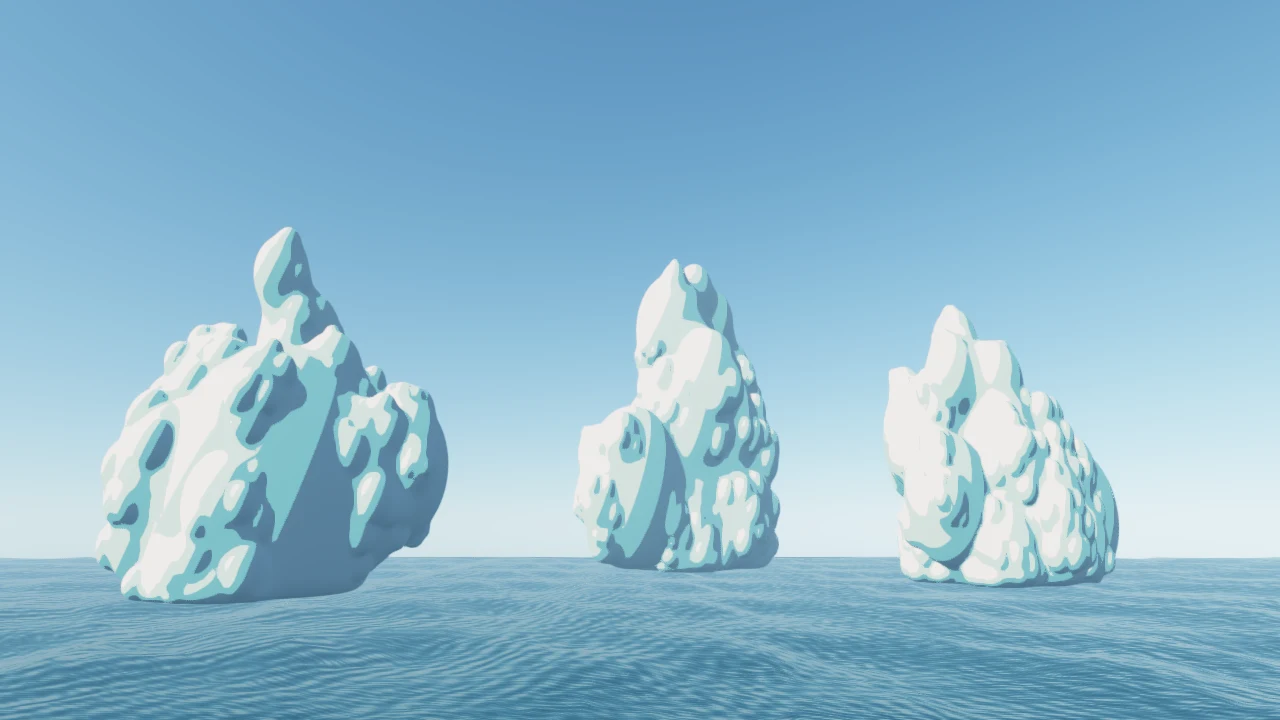
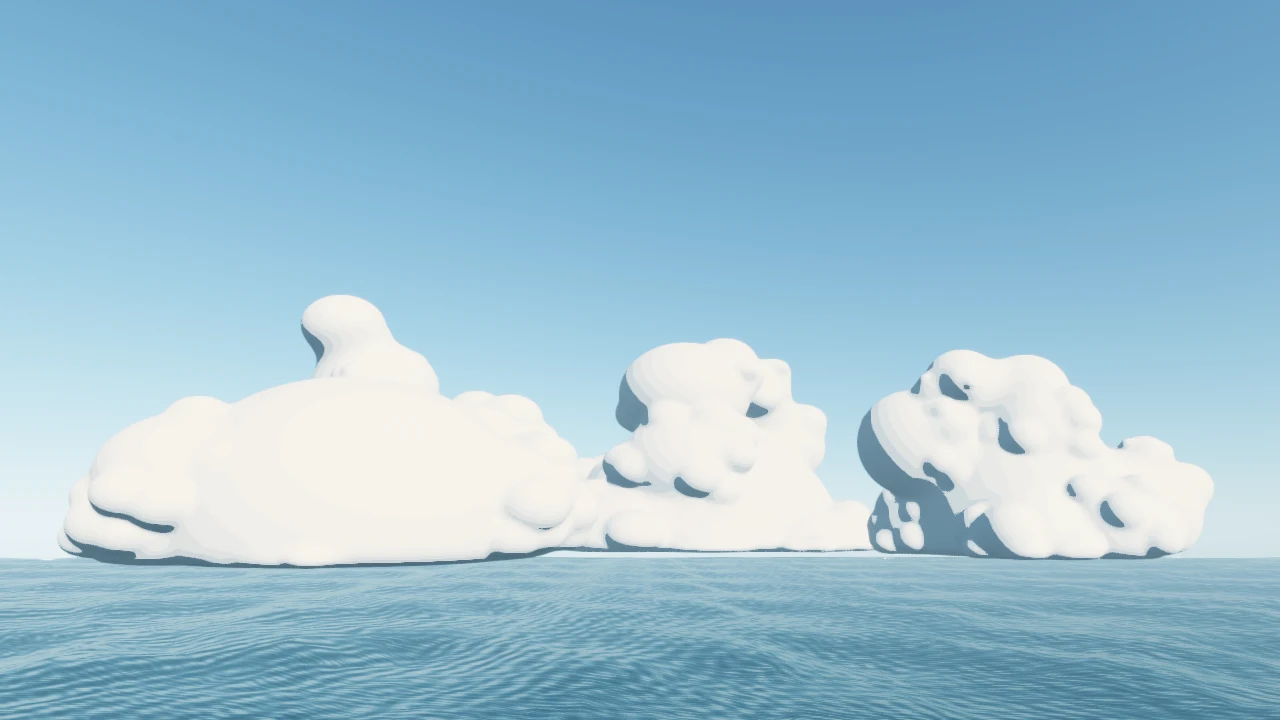
Rework the cumulus towers into soft, flat-based clouds (#2039)
The towers read as snow towers: 680 small spheres with a crisp union and three hard toon steps cut dark pits between the lobes. The recipe now has wide clouds with a flat base, a softly blended union, fewer small lobes and six toon steps from blue-grey in the shade to warm white in the sun, lit from the side. Cauliflower detail and a silver lining are still missing.

diff --git a/tests/cumulus-towers-recipe.test.js b/tests/cumulus-towers-recipe.test.js
@@ -19,17 +19,24 @@ function hashOf(mesh) {
   return hash.digest('hex');
 }
 
-test('the cumulus towers recipe has three tall towers and three toon tones with their own colours', () => {
+test('the cumulus towers recipe has three wide, flat-based clouds with soft lobes and a cool-to-warm toon ramp', () => {
   const recipe = JSON.parse(recipeText);
   const towers = recipe.geometries.filter(geometry => geometry.type === 'cloud');
   assert.deepEqual(towers.map(tower => tower.id), TOWER_IDS);
   for (const tower of towers) {
-    assert.ok(tower.height > tower.width, `${tower.id} must be taller than wide`);
-    assert.equal(tower.levels.length, 3);
+    assert.ok(tower.width > tower.height, `${tower.id} must be wider than tall, as a cumulus is`);
+    assert.equal(tower.flatBase, 1, `${tower.id} keeps a flat base`);
+    assert.ok(tower.unionSoftness >= 0.2, `${tower.id} blends its lobes softly`);
+    assert.ok(tower.levels.at(-1).count <= 200, `${tower.id} has few enough small lobes to stay fluffy`);
   }
   const cumulus = recipe.materials.find(material => material.id === 'cumulus');
-  assert.equal(cumulus.toon, 3);
-  assert.equal(cumulus.toonColors.length, 3);
+  assert.equal(cumulus.toon, 6);
+  assert.equal(cumulus.toonColors.length, 6);
+  const [darkest] = cumulus.toonColors;
+  const lightest = cumulus.toonColors.at(-1);
+  assert.ok(darkest[2] > darkest[0], 'the shaded step is blue-grey');
+  assert.ok(lightest[0] > lightest[2], 'the lit step is warm white');
+  assert.ok(Math.min(...darkest) >= 0.25, 'the shaded step stays light, so no dark pits');
 });
 
 test('the cumulus towers recipe builds the same towers byte for byte every time, each different from the others', () => {

diff --git a/docs/modeling.md b/docs/modeling.md
@@ -156,7 +156,7 @@ A scene geometry takes the same fields with `"type": "cloud"` (see `scene_capabi
 
 With `levels` such as `[{"count": 7, "sizeRatio": 1}, {"count": 60, "sizeRatio": 0.35}, {"count": 680, "sizeRatio": 0.12}]` the cloud becomes a tower covered in rounded lobes. Normals come from the gradient of the blended field at each vertex, not from the mesh faces, so toon steps follow the lobes without fine rings. Later levels find their neighbours in a grid, so 680 bumps cost little per sample; three such towers at `resolution` 128 take about 2.3 s together. A mesh over 150000 faces is refused with the resolution to pass instead.
 
-Three tall towers over a sea, each with three levels of lobes and three hard toon tones (`toonColors`, darkest to lightest), are in [`recipes/cumulus-towers.json`](https://crucible.codepawl.com/recipes/cumulus-towers.json). A still of it, rendered by Crucible:
+Three wide cumulus over a sea, each with a flat base and three levels of softly blended lobes, shaded with six toon steps (`toonColors`, darkest to lightest) from blue-grey in the shade to warm white in the sun, are in [`recipes/cumulus-towers.json`](https://crucible.codepawl.com/recipes/cumulus-towers.json). A still of it, rendered by Crucible:
 
 ![Three cumulus towers over the sea](https://crucible.codepawl.com/recipes/cumulus-towers.webp)
 

diff --git a/changes/2039-still.md b/changes/2039-still.md
@@ -1,1 +1,1 @@
-- A recipe of three cumulus towers over the sea, with three coloured toon tones, in `public/recipes/cumulus-towers.json` (#2039)
+- A recipe of three wide, flat-based cumulus over the sea, with softly blended lobes and six cool-to-warm toon steps, in `public/recipes/cumulus-towers.json` (#2039)
